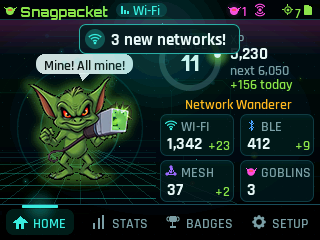
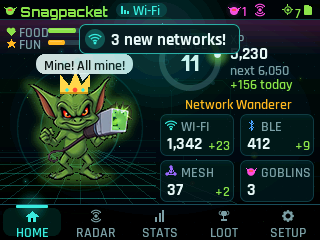
docs, ci: v0.3 features and screenshots; quest tests in CI
Claude-Session: https://claude.ai/code/session_01TTpWUDgkbVCjWgz3LKJZjU

diff --git a/README.md b/README.md
@@ -35,7 +35,12 @@ of what it hears. It just *sniffs*. Respectfully. Like a goblin with manners.
 | 🕸 **Mesh eavesdropping** | The C5's third radio listens to 802.15.4: Zigbee bulbs, Thread sensors, Matter hubs. Your smart home is chattier than you think. |
 | 👺 **Goblin encounters** | Two Scouts near each other *notice each other* (Pwnagotchi-style). Cue the encounter scene, sparks, hearts and **+100 XP** for a new friend. |
 | 🏆 **110 achievements** | Bronze, silver, gold and shimmering-rainbow legendary. Some are secret. One involves petting the goblin a frankly concerning number of times. |
-| ✨ **A goblin with feelings** | It bobs, blinks, hops when it finds something, glows when it levels up, and snores in pocket mode. It also talks. Mostly about packets. |
+| ✨ **A goblin with feelings** | It bobs, blinks, hops when it finds something, glows when it levels up, and snores in pocket mode. It also talks (and babbles, if you wire up a speaker). Mostly about packets. |
+| 🍖 **Needs** | It gets **hungry** (feed it new devices) and **bored** (show it new channels, places, networks and goblins). Keep both meters full and it earns **+25% XP**. Neglect it and it sulks. |
+| 📜 **Quests** | A board of three challenges at a time: *"Sniff out 20 new networks"*, *"Find a Wi-Fi 6 router"*... Clear the board for bonus XP, then a fresh one turns up. |
+| 🎩 **Hats** | 13 hats, from party hat to wizard hat to tinfoil hat, unlocked by milestones. Your hat travels in the goblin beacon, so other goblins see it when you meet. Fashion matters. |
+| 📡 **Radar** | A live sweep of everything heard in the last minute. Distance = signal strength, colour = radio, other goblins show up as little goblin heads. |
+| 🪪 **Share card** | Hold the goblin (or Setup → Share card) for a trading card with its name, level, hat, stats and a **QR code**. Made for photos. |
 | 🗺 **Exploration** *(GPS optional)* | Plug in a GPS for daily streaks and "areas explored". Coordinates never leave the SD card. |
 | 📴 **Fully offline** | No account, no cloud, no app. The SD card is optional (but without it the goblin forgets everything at bedtime). |
 
@@ -45,16 +50,21 @@ of what it hears. It just *sniffs*. Respectfully. Like a goblin with manners.
 <tr>
 <td><img src="docs/img/splash.png" width="240"><br><sub>Boot. The goblin awakens.</sub></td>
 <td><img src="docs/img/home_scanning_banner.png" width="240"><br><sub>"Mine! All mine!"</sub></td>
+<td><img src="docs/img/radar.png" width="240"><br><sub>Radar: everything nearby, live.</sub></td>
+</tr>
+<tr>
+<td><img src="docs/img/quests.png" width="240"><br><sub>Quest board.</sub></td>
+<td><img src="docs/img/wardrobe.png" width="240"><br><sub>The wardrobe. Crown sold separately (level 20).</sub></td>
+<td><img src="docs/img/share_card.png" width="240"><br><sub>Share card, QR included.</sub></td>
+</tr>
+<tr>
 <td><img src="docs/img/levelup.png" width="240"><br><sub>Level up. Unbearable now.</sub></td>
+<td><img src="docs/img/new_hat.png" width="240"><br><sub>New hat unlocked.</sub></td>
+<td><img src="docs/img/achievement.png" width="240"><br><sub>Achievement unlocked.</sub></td>
 </tr>
 <tr>
 <td><img src="docs/img/stats_spectrum.png" width="240"><br><sub>Every channel it's ever heard.</sub></td>
 <td><img src="docs/img/badges.png" width="240"><br><sub>The trophy shelf.</sub></td>
-<td><img src="docs/img/achievement.png" width="240"><br><sub>Achievement unlocked.</sub></td>
-</tr>
-<tr>
-<td><img src="docs/img/badge_detail.png" width="240"><br><sub>Tap a badge for the lore.</sub></td>
-<td><img src="docs/img/setup.png" width="240"><br><sub>Knobs and switches.</sub></td>
 <td><img src="docs/img/home_sleeping.png" width="240"><br><sub>Pocket mode. zzz.</sub></td>
 </tr>
 </table>
@@ -89,9 +99,11 @@ ESP32-C5). It's big. Make a sandwich.
 
 ## Living with your goblin
 
-- **Tabs** along the bottom: Home, Stats, Badges, Setup. **Swipe** left/right to flip tabs and pages.
-- **Tap the goblin** to pet it. It likes that. Probably.
-- **Tap a badge** to read what it's for. Secret ones stay secret until you earn them.
+- **Tabs** along the bottom: Home, Radar, Stats, Loot, Setup. **Swipe** left/right to flip tabs and pages.
+- **Tap the goblin** to pet it. It likes that. Probably. **Hold** it to pull up its share card.
+- **Loot** = quests, then the wardrobe (tap a hat to wear it), then the trophy shelf. Tap a badge to read
+  what it's for. Secret ones stay secret until you earn them.
+- **Food & fun meters** (top left of Home): a fed, entertained goblin earns +25% XP. Take it somewhere new.
 - **BOOT button** = pocket mode: screen off, goblin keeps sniffing. Tap the screen to wake it.
 - **Setup → Turbo display** runs the screen at full speed. If you see glitches, turn it off.
 - **Setup → Goblin beacon** controls whether other goblins can find *yours* (see privacy below).
@@ -180,6 +192,9 @@ sd_card/                 copy to the microSD card
   where a sighting came from.
 - **New achievement?** Append a line to `ACHIEVEMENTS[]` in `src/core/Achievements.cpp`. Never reorder or
   rename ids; they're saved on SD.
+- **New hat?** Append to `kHats[]` in `src/core/Hats.cpp` and draw it in `src/ui/HatArt.cpp`.
+  **New quest type?** Append to `quests::Type` and `kDefs[]` in `src/core/Quests.cpp`.
+- **Share card link?** Set `NG_SHARE_URL` in `include/config.h`.
 - **New screen tweak?** Run `sh tools/preview/run.sh` and look at `tools/preview/out/` before flashing.
 
 ## Quest log
@@ -189,6 +204,7 @@ sd_card/                 copy to the microSD card
 - [x] 802.15.4 (Zigbee / Thread) sniffing
 - [x] Goblin encounters (needs two goblins, or a phone faking one; see `CLAUDE.md`)
 - [x] 110 achievements, levels, streaks, exploration
+- [x] Hunger & boredom, quest boards, 13 hats, radar, share card with QR code
 - [x] Animated goblin and a UI that doesn't look like 1997
 - [ ] **Battery.** The board has no charger or battery sense. Plan: LiPo → charger/boost → 5 V on P5 pin 1,
       plus an I2C fuel gauge (MAX17048-ish) on CN1
@@ -202,5 +218,6 @@ sd_card/                 copy to the microSD card
   [Rajdhani](https://fonts.google.com/specimen/Rajdhani), SIL Open Font License (see `assets/fonts/`).
 - Board: [RockBase NM-CYD-C5](https://github.com/RockBase-iot/NM-CYD-C5).
 - Display library: [Arduino_GFX](https://github.com/moononournation/Arduino_GFX).
+- QR codes: [Nayuki's QR Code generator](https://www.nayuki.io/page/qr-code-generator-library) (MIT), in `lib/qrcodegen/`.
 
 <p align="center"><i>Feed the goblin. Respect the airwaves.</i></p>

diff --git a/CLAUDE.md b/CLAUDE.md
@@ -35,6 +35,8 @@ pio device monitor               # serial log, 115200
 ```sh
 g++ -std=c++17 -Wall -Wextra -I src test/test_ieee802154.cpp -o /tmp/t && /tmp/t   # 802.15.4 parser
 g++ -std=c++17 -Wall -Wextra -I src test/test_peer.cpp -o /tmp/t && /tmp/t         # beacon codec
+g++ -std=c++17 -Wall -Wextra -I tools/preview/shim -I src test/test_quests.cpp src/core/Quests.cpp \
+    src/core/Hats.cpp -o /tmp/t && /tmp/t                                           # quests + hats
 sh tools/preview/run.sh        # renders the real UI to tools/preview/out/*.png (needs Pillow)
 python3 tools/gen_assets.py    # regenerate src/ui/assets/* from assets/ (logo, fonts)
 ```
@@ -94,7 +96,8 @@ Pins live in `include/board.h`; tunables in `include/config.h`.
 5. **BLE callbacks never touch SPI** (display, SD and touch share one bus) — queue only;
    the main loop drains the queue.
 6. Achievement ids in `ACHIEVEMENTS[]` are saved to SD: append only, never reorder or rename.
-   Same for `Radio` enum values and `NG_SAVED_COUNTERS` names (both feed stored data).
+   Same for `Radio` enum values, `NG_SAVED_COUNTERS` names, hat ids (`core/Hats.cpp`, also sent in
+   the beacon) and quest types (`core/Quests.h`) — all feed stored data.
 7. **The only transmission is the goblin beacon** (`src/social/`): non-connectable BLE advert, random
    per-boot address, no user data, user-toggleable. Never add probe requests, active scans or
    802.15.4 transmissions.
@@ -108,10 +111,12 @@ src/hal/             Display (PSRAM canvas), Touch (XPT2046), Storage (SD), Gps,
 src/scanners/        Scanner interface, WifiScanner, BleScanner, ThreadScanner (802.15.4), ScanManager,
                      Ieee802154Frame.h (pure MAC header parser)
 src/social/          Peer identity (NVS) + goblin BLE beacon; PeerCodec.h = pure wire format
-src/core/            Engine (sighting -> XP -> achievements -> persistence), Achievements, SeenStore, HashSet64
+src/core/            Engine (sighting -> XP -> achievements -> persistence, needs, quest board, radar blips),
+                     Achievements, Quests, Hats (pure), SeenStore, HashSet64
 src/ui/              Pure UI: Ui (screens/overlays/input), Companion (animated logo goblin), Widgets, Theme,
                      Model (per-frame snapshot from main.cpp), gfx/ (renderer), assets/ (generated)
-                     Sprites.cpp is the one device-only file (loads SD packs)
+                     HatArt (vector hats). Sprites.cpp is the one device-only file (loads SD packs)
+lib/qrcodegen/       Nayuki QR code generator (MIT, C) for the share card
 src/diag/            Hardware bring-up mode
 test/, tools/        PC unit tests, asset generator, UI preview
 ```
@@ -155,5 +160,9 @@ Still unknown:
 ## Roadmap
 
 Done in v0.2 (awaiting hardware test): 802.15.4 scanner, goblin encounters, GUI overhaul, 110 achievements.
+Done in v0.3 (compiles; awaiting hardware test): hunger/boredom + happy XP bonus, quest boards, 13 hats
+(sent in beacon flags bits 0-4), radar screen, share card with QR (`NG_SHARE_URL`), goblin babble.
+Display DMA (IDF spi_master/esp_lcd for the whole shared bus) is deferred until the v0.2.2 `ui:` timing
+line shows whether push or render is the remaining bottleneck.
 Next: battery support (LiPo -> charger/boost -> 5 V on P5 pin 1, MAX17048-style fuel gauge on I2C)
 -> account pairing and summary sync.
